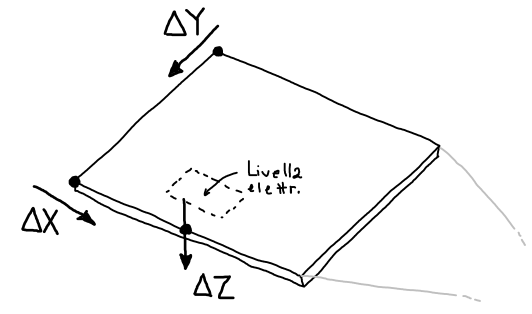
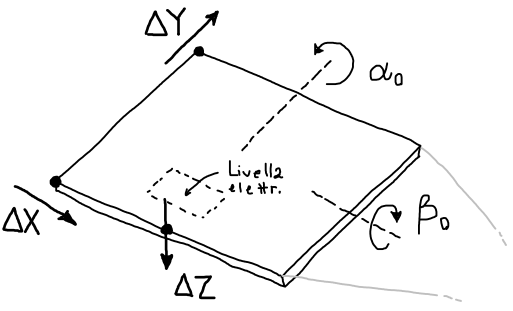
tabella misure di geometria correzione figura misura geometria (verso DY sbagliato)

diff --git a/esp-1-flusso_di_raggi_cosmici/relazione/geometriamis.tex b/esp-1-flusso_di_raggi_cosmici/relazione/geometriamis.tex
@@ -10,26 +10,50 @@
 	I \emph{disallineamenti} $\Delta X$ e $\Delta Y$ sono misurati
 	con il righello o il metro a nastro usando come riferimento
 	una livella a bolla.
-	Le \emph{inclinazioni} $\alpha$ e $\beta$ sono misurate con
+	Le \emph{inclinazioni relative} $\alpha_0$ e $\beta_0$ sono misurate con
 	una livella elettronica (un telefono) che ha una risoluzione di \SI{0.1}{\degree}.}
 \end{figure}
+
+\begin{table}
+	\center
+	\begin{tabular}{cccccccc}
+		PM & $\Delta X$ [\si{mm}] & $\Delta Y$ [\si{mm}] & $\Delta Z$ [\si{mm}] & $\alpha_0$ [\si\degree] & $\beta_0$ [\si\degree] & $L_x$ [mm]      & $L_y$ [mm]      \\
+		\hline
+		6  & 0                    & \num{543 \pm 1}      & 0                    & 0.7                     & 0.2                    & \num{400 \pm 2} & \num{482 \pm 1} \\
+		5  & \num{-5 \pm 1}       & \num{540 \pm 1}      & \num{102 \pm 1}      & 1.0                     & 0.3                    & \num{404 \pm 2} & \num{482 \pm 1} \\
+		4  & \num{1 \pm 1}        & \num{536 \pm 1}      & \num{205 \pm 1}      & 1.2                     & 0.4                    & \num{398 \pm 2} & \num{481 \pm 1} \\
+		3  & \num{1 \pm 1.4}      & \num{539 \pm 1}      & \num{308 \pm 1}      & 0.8                     & 0.3                    & \num{400 \pm 2} & \num{480 \pm 1} \\
+		2  & \num{2 \pm 1.4}      & \num{531 \pm 1}      & \num{411 \pm 1}      & 0.2                     & 0.6                    & \num{395 \pm 2} & \num{481 \pm 1} \\
+		1  & \num{0 \pm 2}        & non mis.             & \num{804 \pm 2}      & 0.8                     & 0.4                    & \num{398 \pm 2} & \num{480 \pm 1}
+	\end{tabular}
+	\caption{\label{tab:geom}
+	Misure di geometria.
+	Per gli angoli abbiamo preso un'incertezza pari a metà della risoluzione cioè \SI{0.05}\degree.
+	Le incertezze delle misure con righello o metro a nastro
+	le abbiamo fissate a una tacca o a due tacche
+	a seconda della difficoltà della misura.
+	Le misure con incertezza \num{1.4} sono ottenute
+	sommando due misure con incertezza \num{1}.}
+\end{table}
 
 Dobbiamo misurare le caratteristiche gemetriche dell'apparato
 per assegnare misure alle variabili del modello in \autoref{fig:geometriadef}.
 
 Con una livella a bolla controlliamo che tutte le lastre siano orizzontali.
 La livella a bolla ha, per verifica empirica, una risoluzione minore di quella
-elettronica del telefono (\SI{1}{\degree}).
+elettronica del telefono (\SI{0.1}{\degree}).
 Tuttavia la livella elettronica non ha uno zero fisso; lo zero va impostato
 appoggiandola su una superficie di riferimento.
-Allora misuriamo l'inclinazione delle lastre (gli angoli $\alpha$ e $\beta$,
-che sono gli angoli di Eulero del telefono forniti dal software)
+Allora misuriamo l'inclinazione delle lastre con la livella elettronica 
+(gli angoli $\alpha_0$ e $\beta_0$,
+che sono gli angoli di Eulero del telefono forniti dal software),
 \marginpar{Controllare con il telefono di Bob se sono effettivamente questi angoli
 come li sto definendo fin'ora.}
-con la livella elettronica, e poi assumiamo, come detto nella \autoref{sec:teogeom},
+e poi assumiamo, come detto nella \autoref{sec:teogeom},
 che l'inclinazione media delle lastre sia nulla.
 Questo ci permette di valutare in modo quantitativo quantomeno l'incertezza
 dovuta all'inclinazione relativa delle lastre.
 
 Misuriamo la posizione spaziale usando righello, metro a nastro e livella a bolla.
-Facendo riferimento alla \autoref{fig:geometriamis} per la notazione,
+Facendo riferimento alla \autoref{fig:geometriamis} per la notazione, riportiamo
+in \autoref{tab:geom} le misure.

diff --git a/esp-1-flusso_di_raggi_cosmici/relazione/attenuazione.tex b/esp-1-flusso_di_raggi_cosmici/relazione/attenuazione.tex
@@ -10,7 +10,7 @@ Abbiamo eseguito le misure dividendo il PM1 in 16 caselle e ponendo su ognuna di
 Nel fare le misure sulle caselle periferiche abbiamo appoggiato il miniscint sulla struttura che circonda il PM1 in modo che l'angolo tra esso ed il miniscint sia sempre lo stesso. Tale accorgimento ci permette di usare quelle misure per stimare l'efficienza locale (relativa) del PM1 \emph{che sarà trattata in dettaglio in una delle sezioni seguenti  (dire quale) }.                            \marginpar{spiegare quel ``relativa'' nella relazione completa}
 Per ogni casella abbiamo acquisito il numero di coincidenze verificatesi in \SI{1000}{s}. Al PM1 era collegata l'ADC in modo da poter registrare anche il rilascio di energia in ogni sezione.
 
-Se chiamiamo N il numero di muoni che attraversano ogni casella, possiamo legare questa quantità alla lunghezza di attenuazione attraverso la relazione \eqref{exp} in cui $x$ è la distanza del miniscint dalla guida di luce; $N_0$ e $\lambda$ sono i parametri del fit. 
+Se chiamiamo $N$ il numero di muoni che attraversano ogni casella, possiamo legare questa quantità alla lunghezza di attenuazione attraverso la relazione \eqref{exp} in cui $x$ è la distanza del miniscint dalla guida di luce; $N_0$ e $\lambda$ sono i parametri del fit. 
 \begin{equation}
 N=N_0 e^{-\frac{x}{\lambda}}  \label{exp}
 \end{equation}
@@ -34,7 +34,7 @@ La \autoref{atte} mostra le medie ottenute e la relativa funzione di fit.
 La seconda strategia adottata consiste nel fittare con la \eqref{exp} i conteggi di ogni riga separatamente e poi fare la media delle 4 lunghezze di attenuazione ottenute.
 In \autoref{4atte} è possibile vedere le 4 curve con le relative funzioni di fit e di seguito sono elencati i risultati del fit:  \marginpar{risultati riga per riga in una tabella per febbraio}
 
-La media dei parametri del fit restituisce $<\lambda>=\SI{110\pm17}{cm}$ e $<N_0>=643\pm13$.
+La media dei parametri del fit restituisce $\langle\lambda\rangle=\SI{110\pm17}{cm}$ e $\langle N_0\rangle=643\pm13$.
 \begin{figure}[h]
 \centering
 \includegraphics[width=8 cm]{4atte}

diff --git a/esp-1-flusso_di_raggi_cosmici/relazione/introduzione.tex b/esp-1-flusso_di_raggi_cosmici/relazione/introduzione.tex
@@ -21,3 +21,4 @@ Abbiamo a disposizione 6 lastre di scintillatore plastico
 posizionate orizzontali e allineate verticalmente,
 che non possiamo spostare,
 collegate a tubi fotomoltiplicatori (vedi \autoref{fig:apparato}).
+\marginpar{Aggiungere miniscint.}

diff --git a/esp-1-flusso_di_raggi_cosmici/relazione/relazione.tex b/esp-1-flusso_di_raggi_cosmici/relazione/relazione.tex
@@ -4,7 +4,7 @@
 \usepackage[T1]{fontenc}
 \usepackage[italian]{babel}
 
-\usepackage[margin=4.5cm, top=1.5cm, bottom=2.5cm]{geometry}
+\usepackage[margin=4.2cm, top=1.5cm, bottom=2.5cm]{geometry}
 
 \usepackage{siunitx}
 \usepackage{amsmath}
